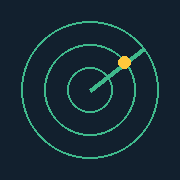
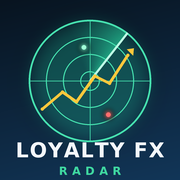
Add files via upload

diff --git a/index.js b/index.js
@@ -21,9 +21,20 @@ async function activeUids() {                                // admins plus appr
   Object.entries(ap.val() || {}).forEach(([id, v]) => { if (v === true && (!m[id] || !m[id].until || m[id].until > now)) out.add(id); });
   return out;
 }
-async function tokens(flag, only) {                          // [{uid, tok}] for devices that want this kind of alert
-  const snap = await db.ref("fcmtokens").get(), out = [];
-  snap.forEach(u => { if (only && !only.has(u.key)) return; u.forEach(t => { const v = t.val(); if (v && v[flag] !== false) out.push({ uid: u.key, tok: t.key }); }); });
+const inQuiet = (v, now) => {                               // member's quiet hours, using the offset their phone reported
+  if (!v || !v.qn || v.qf == null || v.qt == null) return false;
+  const m = (((Math.floor(now / MIN) - (v.qo || 0)) % 1440) + 1440) % 1440;
+  return v.qf <= v.qt ? (m >= v.qf && m < v.qt) : (m >= v.qf || m < v.qt);
+};
+async function tokens(flag, only, pair, signal) {            // [{uid, tok}] for devices that want this kind of alert
+  const snap = await db.ref("fcmtokens").get(), out = [], now = Date.now();
+  snap.forEach(u => { if (only && !only.has(u.key)) return; u.forEach(t => {
+    const v = t.val(); if (!v || v[flag] === false) return;
+    if (flag !== "renew" && flag !== "pa" && inQuiet(v, now)) return;        // quiet hours mute everything except renewals and price alerts
+    if (pair && v.mp && v.mp[safe(pair)]) return;                            // pair muted by the member
+    if (signal && v.ty && v.ty[signal] === false) return;                    // signal type switched off by the member
+    out.push({ uid: u.key, tok: t.key });
+  }); });
   return out;
 }
 async function send(list, title, body) {
@@ -117,7 +128,7 @@ exports.radarPush = onSchedule({ schedule: "every 1 minutes", region: "us-centra
       const was = prev[safe(p)]; if (!was || was === d.signal || d.signal === "WAIT") continue;
       if (now - (sigT[safe(p)] || 0) < SIG_GAP) continue;               // cooldown: at most one signal alert per pair per 15 minutes
       sigT[safe(p)] = now;
-      await send(await tokens("sig", act), `${p}: ${d.signal}`, d.signal === "DANGER" ? `${d.reason || "Danger"}. Do not enter.` : "Signal conditions changed.");
+      await send(await tokens("sig", act, p, d.signal), `${p}: ${d.signal}`, d.signal === "DANGER" ? `${d.reason || "Danger"}. Do not enter.` : "Signal conditions changed.");
     }
     await db.ref("pushlog/sig").set(next); await db.ref("pushlog/sigt").set(sigT);
   }

diff --git a/README.md b/README.md
@@ -37,3 +37,11 @@ Send members this link: `https://YOUR-SITE/?install=1`
 - Google Cloud console, APIs and Services, Credentials: restrict the browser API key to your site address (HTTP referrers).
 - `pushCleanup` runs daily and removes old push log entries. `settings/newsErr` shows the last news fetch error.
 - Redeploy functions after updating: `firebase deploy --only functions`. Publish the new `database_rules.json`.
+
+# Phone alerts now follow each member's settings
+
+Quiet hours, muted pairs and switched-off signal types (BUY/SELL/DANGER) from Notification settings are now sent with the device and respected by the server. Quiet hours mute everything except renewal reminders and price alerts. Members' settings sync when they change them, so ask existing members to open Notification settings once. Redeploy functions and publish the new rules.
+
+# App icon
+
+`icon-192.png`, `icon-512.png`, `icon-maskable-512.png`, `apple-touch-icon.png` carry the Loyalty FX Radar design. The name under the icon on a phone is "Loyalty FX" (phones cut long names); the install screen shows the full "Loyalty FX Radar". If a phone shows the old icon, remove the app and install it again.
